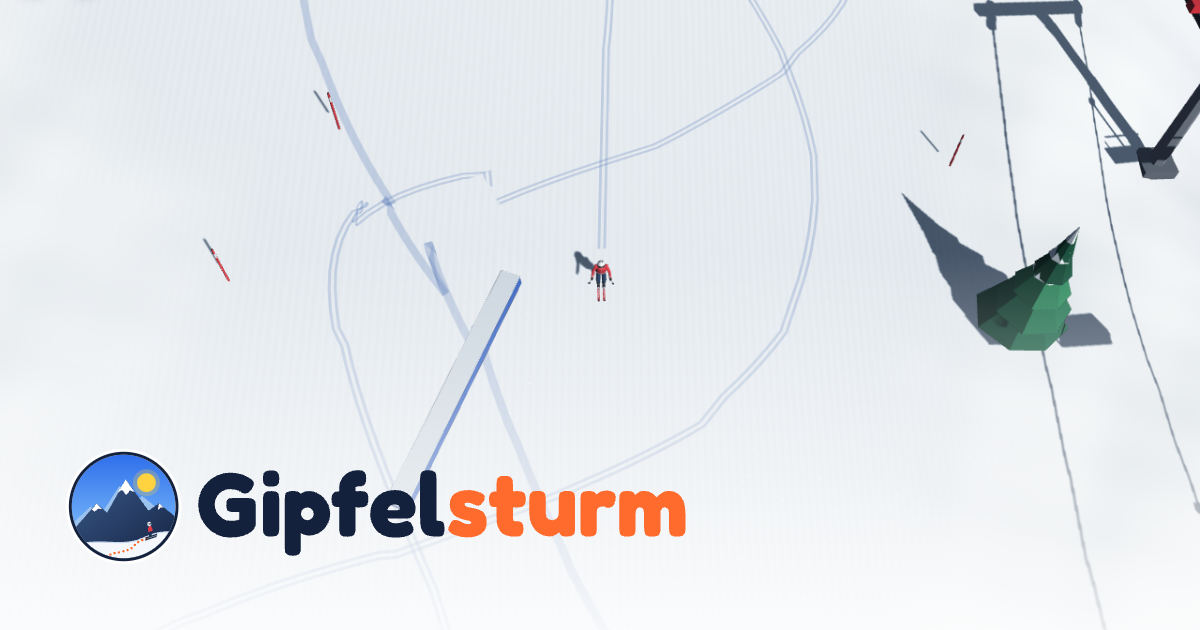
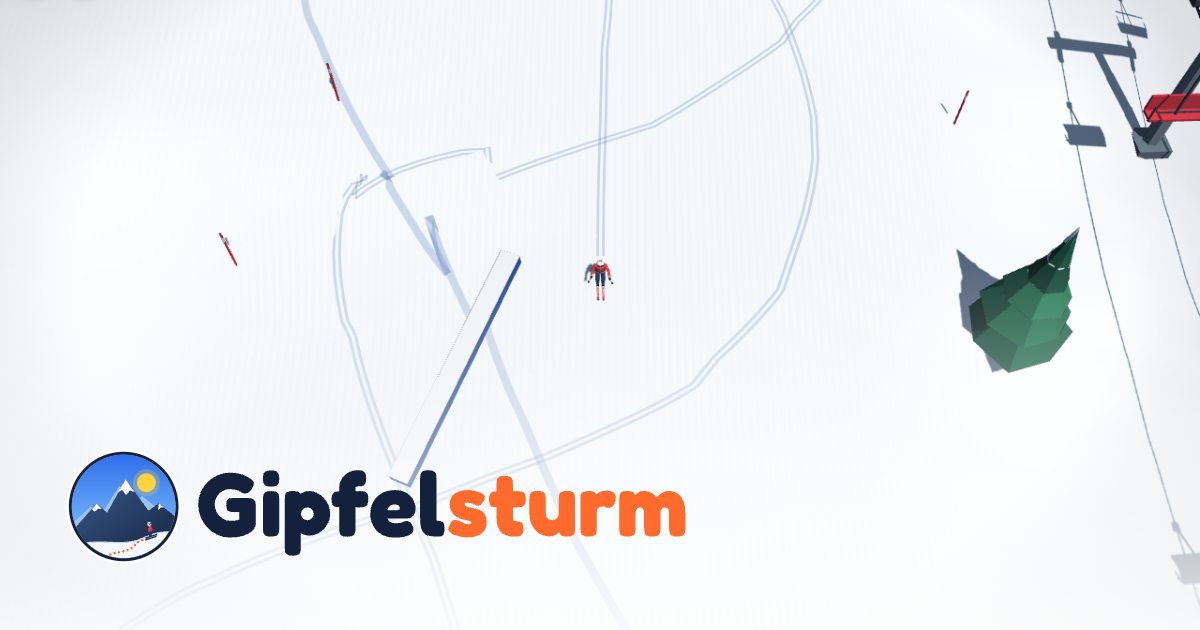
Gipfelsturm: level piste cross-slopes, auto rail hops, fresh screenshots
- Groomed pistes pull towards the centre-line height, removing strong
  cross slopes that stalled riders
- Riding straight onto a rail or box hops on automatically
- Kicker take-offs no longer named cliff drops; fairer big-air scoring
- README mentions the retro levels; regenerated screenshots

Claude-Session: https://claude.ai/code/session_012axu1btnVMczoDME2zqSeE

diff --git a/gipfelsturm/js/terrain.js b/gipfelsturm/js/terrain.js
@@ -149,6 +149,7 @@
     // Mark piste corridors (distance field) and groom them smooth.
     groomPistes(pistes) {
       const { nx, nz } = this;
+      const ncx = new Float32Array(nx * nz), ncz = new Float32Array(nx * nz);
       for (const p of pistes) {
         const half = p.width / 2;
         const reach = half + 16;
@@ -171,6 +172,7 @@
               if (d < this.pisteD[id]) {
                 this.pisteD[id] = d;
                 this.pisteId[id] = p.id;
+                ncx[id] = px; ncz[id] = pz;
               }
             }
           }
@@ -178,12 +180,20 @@
       }
       const soft = this._blur(this.h, 3);
       const softer = this._blur(this.h, 6);
+      const sample = (arr, x, z) => {
+        const fx = GS.clamp(x / CS, 0, nx - 1.001), fz = GS.clamp(z / CS, 0, nz - 1.001);
+        const i = fx | 0, j = fz | 0, tx = fx - i, tz = fz - j, id = j * nx + i;
+        return (arr[id] * (1 - tx) + arr[id + 1] * tx) * (1 - tz) + (arr[id + nx] * (1 - tx) + arr[id + nx + 1] * tx) * tz;
+      };
       for (let id = 0; id < this.h.length; id++) {
         const d = this.pisteD[id];
         if (d > 16) continue;
         const w = 1 - GS.smooth(-2, 16, d);
         const p = pistes[this.pisteId[id]];
-        const target = p && p.smooth > 1 ? softer[id] : soft[id];
+        const src = p && p.smooth > 1 ? softer : soft;
+        // level the cross slope: pull towards the height of the centre line
+        const hc = sample(src, ncx[id], ncz[id]);
+        const target = GS.lerp(src[id], hc, 0.65 * (1 - GS.smooth(0, 14, d)));
         this.h[id] = GS.lerp(this.h[id], target, w);
         this.groom[id] = 1 - GS.smooth(-1, 3, d);
       }

diff --git a/gipfelsturm/js/player.js b/gipfelsturm/js/player.js
@@ -546,7 +546,9 @@
         const lat = Math.hypot(this.x - px, this.z - pz);
         if (lat > (g.kind === 'box' ? 0.6 : 0.45)) continue;
         const ry = GS.lerp(g.ay, g.by, t);
-        if (this.y < ry - 0.3 || this.y > ry + 0.7) continue;
+        // riding straight onto the start of a rail or box hops on automatically
+        const hop = this.mode === 'ski' && t < 0.18 && this.y >= ry - 0.85;
+        if (!hop && (this.y < ry - 0.3 || this.y > ry + 0.7)) continue;
         if (this.mode === 'air' && this.vy > 1.5) continue;
         const hs = Math.hypot(this.vx, this.vz);
         if (hs < 2) continue;

diff --git a/gipfelsturm/README.md b/gipfelsturm/README.md
@@ -29,6 +29,7 @@ Auf dem iPad/iPhone die Seite in Safari öffnen und über *Teilen → Zum Home-B
 - **Open World:** frei befahrbare Hänge mit präparierten Pisten (Cord-Muster), Tiefschnee, Eis, Felsen, Klippen, Wäldern, Hütten, Dorf, Sessel-, Gondel- und Schleppliften, Seilrutschen, Gleitschirm-Startplätzen, Funpark mit Kickern, Rails und Boxen, Pistenkarte mit Schnellreise.
 - **Lebendiger Berg:** KI-Skifahrer und -Snowboarder fahren Pisten, stehen am Lift an und fahren mit; Carving-Spuren bleiben im Schnee. Tageszeiten, Wetter (klar, bewölkt, Schneefall, Nebel, Sturm), Flutlicht, Polarlichter.
 - **Tricks:** Spins bis 1440, Back-/Frontflips (doppelt, dreifach), Cork, Rodeo, Misty, 12 Grabs mit Tweak, Rails und Boxen (50-50, Slide, Lipslide, Spin-out), Butter 180/360, Nose/Tail Press, Power-Carve, Powder-Slash, Baum- und Wipfel-Taps, Haarscharf, Klippensprung, Big Air, perfekte Landung, Rückwärtsfahren (Switch, +20 %). Combos multiplizieren die Punkte.
+- **Retro-Pisten:** zwei Minispiele mit 30 zusätzlichen Levels – eine 2D-Seitenansicht (18 Level mit Kickern, Klippen, Felsen und Saltos) und eine Draufsicht (12 Slalom-Level durch den Wald), jeweils mit 1–3 Sternen.
 - **Modi:** Zen-Modus (keine Mitfahrer, keine Challenges), Beobachten (freie Kamera mit 140 KI-Fahrern), wählbare Tageszeit und Wetter.
 
 ## Steuerung
@@ -58,6 +59,7 @@ Alles läuft ohne Bibliotheken direkt im Browser:
 - `js/props.js`, `js/characters.js` – alle 3D-Modelle (Bäume, Felsen, Hütten, Lifte, Kicker, Fahrer mit Ski/Board) werden per Code erzeugt.
 - `js/player.js` – Ski-/Snowboard-Physik (Carving, Kanten, Tiefschnee, Eis, Sprünge, Rails, Stürze), Trick-System.
 - `js/challenges.js` – Generator und Ablauf aller Challenges, Geister-Fahrer zur Medaillen-Kalibrierung.
+- `js/minigames.js` – die Retro-Minispiele (Canvas 2D) mit prozeduralen Levels.
 - `js/audio.js` – Musik (eigene Stimmung pro Berg) und Effekte werden live mit der Web Audio API synthetisiert.
 - `tools/build-assets.mjs` – erzeugt Emblem, Logo (Schrift als Pfade), App-Icons, Social-Bild und Screenshots.
 
